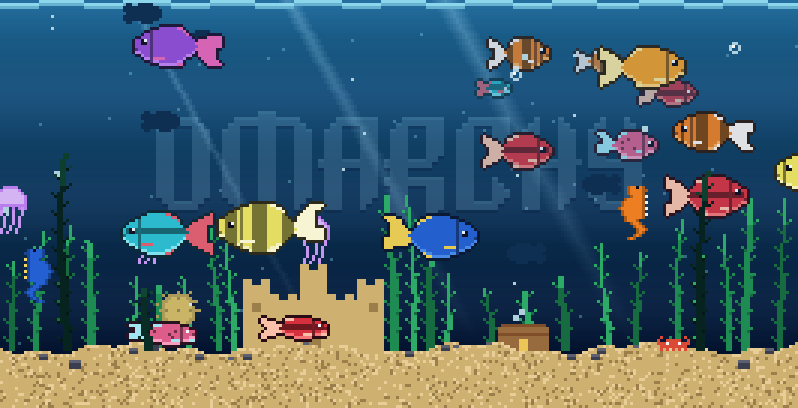
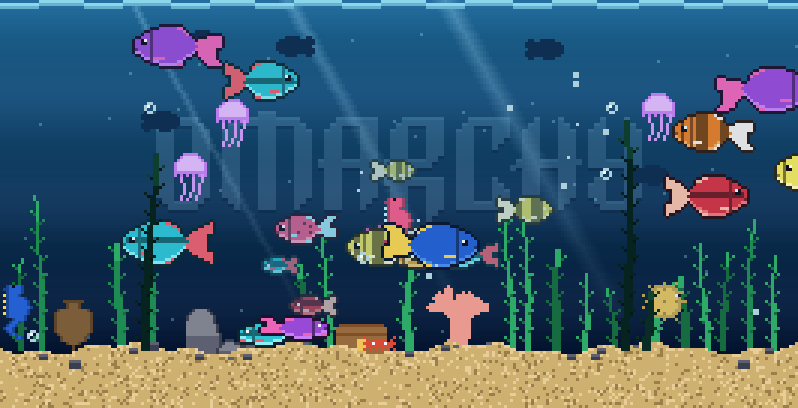
Furnish the floor differently every time
Every tank had exactly one castle and one chest. Now two to five pieces
are picked from a sandcastle, a treasure chest, a boulder pile, branching
coral, a sunken log and an amphora -- each generated at a size that suits
the tank, and placed where it does not crowd what is already there.

What used to be castle-specific is now general: the fish swim over
anything tall enough to be in the way rather than through it, the weeds
keep out of the furniture, and bubbles come up out of whichever pieces are
hollow.

The boulders took three attempts. Drawn as plain ellipses they merged into
a grey slab, and shading them by height only banded the slab; each one
needed its own dark rim so the stones in front read as separate from the
ones behind.

diff --git a/tools/test.py b/tools/test.py
@@ -111,13 +111,13 @@ for cols, rows in ((160, 45), (320, 81)):
     check("%dx%d has shoals" % (cols, rows), len(tank.schools) > 0)
     shoaling = [a for a in tank.actors if getattr(a, "school", None) is not None]
     check("%dx%d has fish in the shoals" % (cols, rows), len(shoaling) >= 3)
-    if tank.castle_box:
-        x0, y0, x1, y1 = tank.castle_box
-        inside = [a for a in tank.actors
-                  if isinstance(a, ft.Fish) and not isinstance(a, ft.BottomFeeder)
-                  and a.x + a.w > x0 and a.x < x1 and a.y + a.h > y0 and a.y < y1]
-        check("%dx%d: nothing swims through the castle" % (cols, rows), not inside,
-              "%d inside" % len(inside))
+    inside = [a for a in tank.actors
+              if isinstance(a, ft.Fish) and not isinstance(a, ft.BottomFeeder)
+              and any(a.x + a.w > x0 and a.x < x1 and a.y + a.h > y0 and a.y < y1
+                      for x0, y0, x1, y1 in tank.decor_boxes)]
+    check("%dx%d: nothing swims through the scenery" % (cols, rows), not inside,
+          "%d inside" % len(inside))
+    check("%dx%d has scenery" % (cols, rows), len(tank.decor) > 0)
     check("%dx%d has a far layer" % (cols, rows), len(tank.backdrop) > 0)
     check("%dx%d has fronds up front" % (cols, rows), len(tank.front_weeds) > 0)
 
@@ -268,6 +268,30 @@ for size in (5, 9, 17):
 for w in (5, 9, 17):
     check("jelly at %d has tentacles" % w,
           any("t" in row for row in ft.make_jelly(w, int(w * 1.6))))
+
+# -- scenery is different every time, and never stacked -------------------
+
+layouts = set()
+for seed in range(12):
+    random.seed(seed)
+    tank = ft.Tank(320, 81, Opts())
+    spread = []
+    for sprite, x, y in tank.decor:
+        spread.append((x, x + sprite.w))
+        check("scenery sits on the floor",
+              y + sprite.h >= tank.floor and y >= 0)
+    spread.sort()
+    overlap = any(spread[i][1] > spread[i + 1][0] for i in range(len(spread) - 1))
+    check("scenery does not stack up", not overlap, str(spread))
+    layouts.add(tuple(sorted((x, s.w, s.h) for s, x, _ in tank.decor)))
+check("scenery differs between tanks", len(layouts) >= 8,
+      "%d different layouts in 12" % len(layouts))
+
+for cols, rows in ((96, 30), (320, 81)):
+    random.seed(2)
+    tank = ft.Tank(cols, rows, Opts())
+    check("%dx%d scenery fits the tank" % (cols, rows),
+          all(x >= 0 and x + s.w <= tank.w for s, x, _ in tank.decor))
 
 # -- the clock ---------------------------------------------------------------
 

diff --git a/README.md b/README.md
@@ -40,8 +40,15 @@ flaps, a dorsal fin, a gill line and a proper eye), seahorses hanging in the
 weeds, bottom feeders nosing along the sand with their barbels out, a
 pufferfish, drifting
 jellyfish, a crab that patrols the sand, bubbles from fish mouths and sand
-vents, swaying seaweed, a sandcastle, a treasure chest, god rays from the
-surface, drifting plankton and a rippling waterline.
+vents, swaying seaweed, god rays from the surface, drifting plankton and a
+rippling waterline.
+
+The floor is furnished differently every time. Two to five pieces are picked
+from a sandcastle, a treasure chest, a boulder pile, branching coral, a
+sunken log and an amphora, each generated at a size that suits the tank and
+placed where it does not crowd the others. Anything tall enough to be in the
+way is something the fish swim over rather than through, and the hollow ones
+let out the odd bubble.
 
 The smaller fish form loose shoals rather than each wandering off alone --
 they keep station on a school that drifts about the tank, breaking formation
